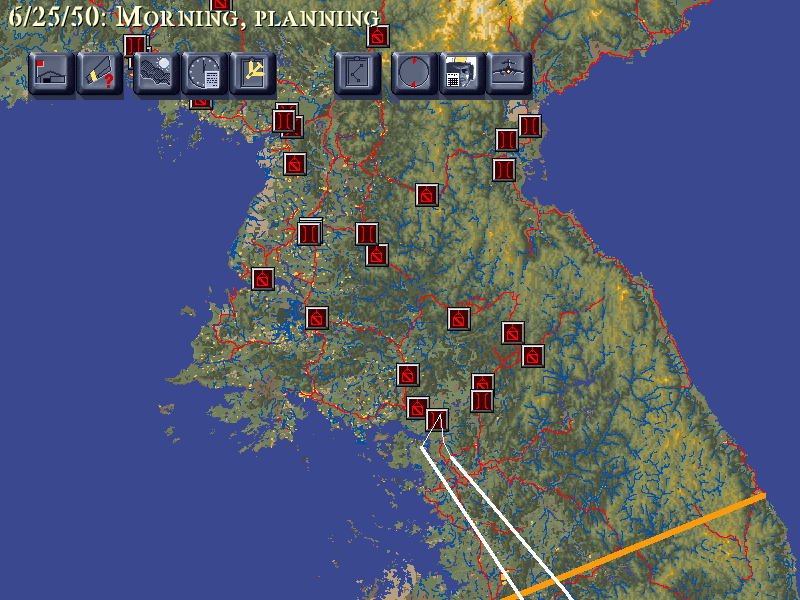
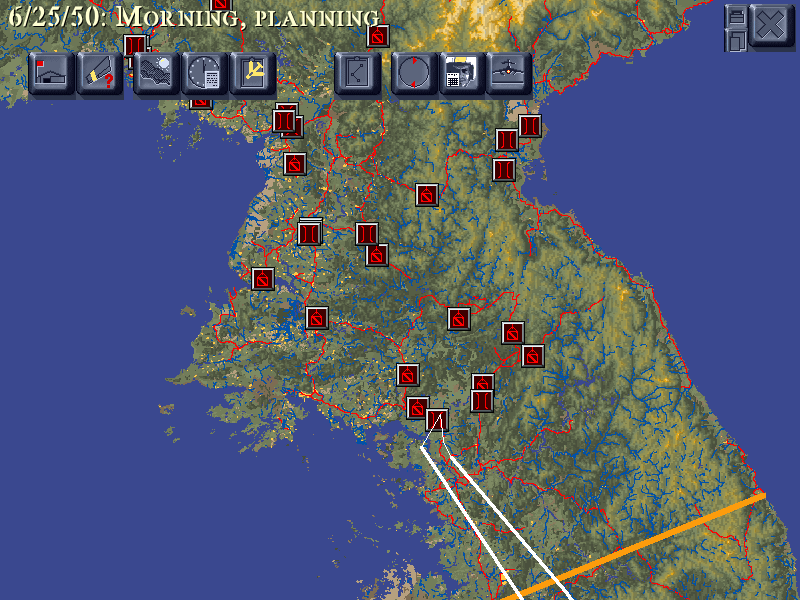
S97 (PO-1): the campaign exit widgets are visible, correct, and work
CSystemBox is now drawn ON BY DEFAULT (MA_NO_SYSBOX reverts), with the right
art, and clicking the X returns the player to the title screen and its main
menu. S94 had to leave it opt-in because every button rendered blank and the
draw corrupted the map's date text; both are fixed.

1. The art. F_GRAFIX.G has FIL_ICON_THUMBNAIL / FIL_ICON_ZOOMIN /
   FIL_ICON_CLOSE1, named after the three control ids -- and two of the three
   are the wrong pictures (they render as unrelated map glyphs). The Wine gold
   settles what the buttons look like; a name in a header does not. New probe
   hook MA_BTN_ART="id=0xNNNN,..." made this a comparison against gold instead
   of a rebuild per candidate. The mapping cross-checks against behaviour:
   IDC_ZOOMIN drives OnGoBig/OnGoNormal, so FIL_ICON_SCREENSIZE is right.

2. The font leak. Drawing the box left a different GDI font selected in the
   screen DC, and the map's date readout -- drawn from the same DC later in
   the frame -- inherited it, rendering top-left in a plain sans. A widget
   must not change the state of the screen it draws on: the font is saved and
   restored around the draw. The check that proves it is that the only pixels
   differing from the previous reference are x 724-795, y 4-51 -- exactly the
   box's rect. "Parity still passes" is weaker than "the diff is exactly the
   shape of what I added".

3. The ghost the art revealed. With art, a SECOND copy of the cluster appeared
[…]

Changed region(s): [[0.9062, 0.0, 1.0, 0.09]]

diff --git a/SRC/MFC/MIG.CPP b/SRC/MFC/MIG.CPP
@@ -217,6 +217,10 @@ extern "C" int ma_map_nav_held(void);
 extern "C" int ma_map_nav_take(void);
 extern "C" int ma_mouse_wheel(void);
 extern "C" const void* ma_gdi_canvas(int*, int*);
+extern "C" void* ma_gdi_screen_dc(void);
+extern "C" void* ma_gdi_get_font(void* hdc);
+extern "C" void  ma_gdi_set_font(void* hdc, void* font);
+extern "C" void  ma_ole_set_parent_scoped(void* dialog);
 /* Apply a new map zoom about screen point (cx,cy), replicating CMIGView::Zoom()'s math
    (MIGVIEW.CPP:888-925) WITHOUT its m_pScaleBar/scrollbar/m_mapdlg side-effects, which
    aren't wired in the port (m_pScaleBar can be NULL -> the real Zoom would crash). */
@@ -1209,23 +1213,35 @@ int CMIGApp::Run()
 							     campaign had no exit or resize widgets at all -- reported from play.
 							     Placed at the canvas's top-right from the box's own control extent, not
 							     a hardcoded width (same rule as the click recipes). */
-							  /* S94 (PO-1): OPT-IN until finished. Drawing the box leaves a different
-							     GDI font selected, and the map's date text -- drawn from the same DC --
-							     inherits it: the parity gate caught the map date rendering in a plain
-							     sans instead of the game's art face, and the OOB sweep went 9 OPEN -> 0.
-							     The box also still renders blank (its ids have no icon art), so shipping
-							     it on by default would trade a passing gate for no visible benefit.
-							     MA_SYSBOX=1 enables it for continued work. */
-							  if (getenv("MA_SYSBOX") && _mf->m_wndSystemBox) {
+							  /* S97 (PO-1): ON BY DEFAULT (MA_NO_SYSBOX reverts). S94 had to leave this
+							     opt-in for two reasons, both now fixed. (1) The buttons had no art --
+							     they do now. (2) Drawing the box left a different GDI font selected and
+							     the map's date text, drawn from the same DC later in the frame,
+							     inherited it: the date rendered in a plain sans instead of the game's
+							     art face. A widget must not change the state of the screen it draws on,
+							     so the DC's font is saved and restored around the draw. */
+							  if (!getenv("MA_NO_SYSBOX") && _mf->m_wndSystemBox) {
 								  int _bw=0,_bh=0;
 								  int _found = ma_ole_dialog_extent(_mf->m_wndSystemBox, &_bw, &_bh);
 								  if (getenv("MA_TRACE_SYSBOX")) { static int _n=0; if(_n++<3)
 									  fprintf(stderr,"[sysbox] box=%p hosted=%d extent=%dx%d\n",
 									          (void*)_mf->m_wndSystemBox, _found, _bw, _bh); }
-								  if (_found && _bw>0) {
+								  if (getenv("MA_TRACE_SYSBOX"))
+								  fprintf(stderr,"[sysbox] wnd=%p found=%d extent=%dx%d canvas=%dx%d\n",
+								          (void*)_mf->m_wndSystemBox, _found, _bw, _bh, _cw, _ch);
+							  if (_found && _bw>0) {
 									  g_sysbox_ox = _cw - _bw - 4; g_sysbox_oy = 4;
 									  if (g_sysbox_ox < 0) g_sysbox_ox = 0;
+									  /* composite it here and ONLY here */
+								  static void* _sbReg = 0;
+								  if (_sbReg != _mf->m_wndSystemBox) {
+									  _sbReg = _mf->m_wndSystemBox;
+									  ma_ole_set_parent_scoped(_sbReg);
+								  }
+								  void* _sdc = ma_gdi_screen_dc();
+									  void* _oldFont = ma_gdi_get_font(_sdc);
 									  ma_ole_draw_toolbar(_mf->m_wndSystemBox, (void*)1, g_sysbox_ox, g_sysbox_oy);
+									  ma_gdi_set_font(_sdc, _oldFont);
 								  }
 							  }
 							  ma_map_paint_oob();   /* S53: render any open OOB-info dialog over the map */
@@ -1267,7 +1283,7 @@ int CMIGApp::Run()
 								     refusal on the click — otherwise its tabs/tick/rows are dead and
 								     the click hits the toolbar or map behind it. */
 								  if (!ma_map_click_oob(_tcx, _tcy))
-								  if (!(getenv("MA_SYSBOX") && _mf->m_wndSystemBox && g_sysbox_ox >= 0 &&
+								  if (!(!getenv("MA_NO_SYSBOX") && _mf->m_wndSystemBox && g_sysbox_ox >= 0 &&
 								        ma_ole_toolbar_click(_mf->m_wndSystemBox, g_sysbox_ox, g_sysbox_oy, _tcx, _tcy)))
 								  if (!ma_ole_toolbar_click(&_mf->m_toolbar2, 4, 52, _tcx, _tcy))
 								  if (!ma_ole_toolbar_click(&_mf->m_toolbar1, 4, 26, _tcx, _tcy))

diff --git a/SRC/compat/ma_olebutton.cpp b/SRC/compat/ma_olebutton.cpp
@@ -116,7 +116,33 @@ extern "C" void ma_button_apply_icon(void* ctrlp, int id) {
         case 2058: fn=0x6a7e; break;  /* IDC_OVERVIEW   -> FIL_ICON_OVERVIEW */
         case 2140: fn=0x6a75; break;  /* IDC_PACKAGES   -> FIL_ICON_MISSIONFOLDER */
         case 2023: fn=0x6a78; break;  /* IDC_AUTHORISE  -> FIL_ICON_MISSIONRESULTS */
+        /* S97 (PO-1): the CSystemBox cluster at the top right -- the widgets the play-tester went
+           looking for and could not find, because the box drew but every button in it was blank.
+           The art was in the game all along and is named after the controls themselves. Confirmed
+           against the Wine gold (#7, top-right corner): maximise and restore stacked in a 24-wide
+           left column, and a large X on the right, which is IDC_FILES -> CMainFrame::OnBye() --
+           the exit.
+           The two small ids do NOT take the art whose NAME matches them: FIL_ICON_THUMBNAIL /
+           FIL_ICON_ZOOMIN render as unrelated map glyphs here. The art was identified by
+           comparing renders against the gold crop (probe hook MA_BTN_ART), and the result is
+           self-consistent -- IDC_ZOOMIN drives OnGoBig/OnGoNormal, which IS the screen-size
+           widget. Matching a name to an id would have shipped the wrong pictures. */
+        case 4:    fn=0x6a99; break;  /* IDC_THUMBNAIL (top)    -> 0x6a99, minimise glyph */
+        case 7:    fn=0x6a9c; break;  /* IDC_ZOOMIN    (bottom) -> FIL_ICON_SCREENSIZE     */
+        case 10:   fn=0x6aa0; break;  /* IDC_FILES     (large)  -> FIL_ICON_CLOSE1, the exit */
         default: return;
+    }
+    /* S97 probe hook: MA_BTN_ART="id=0xNNNN,id=0xNNNN" overrides the table at runtime. Finding the
+       right art means comparing renders against the gold shot, and rebuilding for each candidate
+       turns a two-minute question into an hour. Off unless set. */
+    const char* ov = getenv("MA_BTN_ART");
+    if (ov) {
+        const char* p2 = ov;
+        while (p2 && *p2) {
+            int oid = 0; unsigned ofn = 0;
+            if (sscanf(p2, "%d=%i", &oid, &ofn) == 2 && oid == id) { fn = (long)ofn; break; }
+            const char* c2 = strchr(p2, ','); p2 = c2 ? c2 + 1 : 0;
+        }
     }
     if (c->GetNormalFileNum() != fn) c->SetNormalFileNum(fn);
 }

diff --git a/SRC/compat/ma_olecontrol.cpp b/SRC/compat/ma_olecontrol.cpp
@@ -12,6 +12,7 @@
 #include <stdarg.h>
 #include <stdio.h>
 #include <stdlib.h>
+#include <set>
 #include <map>
 #include "RListBxC.h"          /* CRListBoxCtrl */
 /* S82: implemented in ma_olebutton.cpp (only that TU can see CRButtonCtrl). */
@@ -540,6 +541,16 @@ void ma_ole_remove_by_parent(void* parent) {
     if (n && getenv("MA_TRACE_SIZE")) fprintf(stderr,"[hosted.remove] parent=%p removed=%d remaining=%zu\n", parent, n, m.size());
 }
 
+/* S97 (PO-1): dialogs that are composited ONLY by ma_ole_draw_toolbar, never by the global pass.
+   The campaign-map CRToolBars get this for free because their parent CDialog is created hidden, so
+   ma_ole_draw_all skips them. CSystemBox's parent IS visible, so once its buttons were given art
+   the global pass began drawing them a second time at their raw template origin -- a ghost cluster
+   in the top-left corner that outlived the campaign and sat on the title screen. (It had been
+   drawing all along; with no art it painted nothing, so nobody saw it.) Depending on a parent's
+   hidden-ness for this is an accident; say it explicitly instead. */
+static std::set<void*>& parent_scoped() { static std::set<void*> s; return s; }
+extern "C" void ma_ole_set_parent_scoped(void* dialog) { if (dialog) parent_scoped().insert(dialog); }
+
 void ma_ole_draw_all(void* screenHdc) {
     std::map<void*, Hosted>& m = hosted();
     if (getenv("MA_TRACE_SIZE")) { static int f=0; if((f++ % 30)==0) fprintf(stderr,"[hosted.size] frame~%d entries=%zu\n", f, m.size()); }
@@ -564,6 +575,8 @@ void ma_ole_draw_all(void* screenHdc) {
         /* skip hidden controls / controls whose parent dialog is hidden (ShowWindow(SW_HIDE)) */
         if (!clientWnd->m_maVisible) continue;
         if (parent && !parent->m_maVisible) continue;
+        /* S97: this dialog is composited by the parent-scoped path only (see parent_scoped()) */
+        if (h.parent && parent_scoped().count(h.parent)) continue;
         /* S57 template-membership filter (BoB S124 §8f): a template-positioned control
            ABSENT from the installed build's template for its dialog would never be
            created by the Windows dialog manager — don't draw it (kills source-only

diff --git a/port/scrum/sprint-97.md b/port/scrum/sprint-97.md
@@ -1,0 +1,74 @@
+# Sprint 97 — "A way out" (PO-1) — ✅ CLOSED 2026-08-09 — the exit widgets are visible, correct and they work
+
+**Planned 2026-08-09 (PO pre-approved ceremonies; continuous-sprint directive). Autonomous. ~8 pts.**
+**Sprint Goal:** finish PO-1 — *"no way to exit from campaign — no exit, resize etc widgets on
+upper right"* — which S94 root-caused and half-fixed.
+
+| Story | Pts | Result |
+|---|---|---|
+| S97-1 give the system box its art | 3 | ✅ identified against gold |
+| S97-2 ship it on by default (font leak) | 3 | ✅ fixed, diff confined to the box rect |
+| S97-3 the ghost cluster it exposed | 1 | ✅ parent-scoped draw made explicit |
+| S97-4 gate it | 1 | ✅ `port/sysbox_exit.sh` |
+
+## The state S94 left it in
+`CSystemBox` was drawn and click-routed but **opt-in behind `MA_SYSBOX=1`**, for two reasons: every
+button rendered **blank**, and drawing the box **corrupted the map's date text**. Both are fixed, so
+it is now **on by default** (`MA_NO_SYSBOX` reverts) — which is the point, since a widget the player
+cannot see is not an exit.
+
+## 1. The art — and why matching names to ids would have shipped the wrong pictures
+`F_GRAFIX.G` has `FIL_ICON_THUMBNAIL`, `FIL_ICON_ZOOMIN`, `FIL_ICON_CLOSE1` — named after the three
+control ids. **Two of the three are wrong.** `FIL_ICON_THUMBNAIL`/`FIL_ICON_ZOOMIN` render as
+unrelated map glyphs (a red square, a circular badge).
+
+The Wine gold (#7) settles it: a 24-wide left column with **minimise** over **restore**, and a large
+**X** on the right. The X is `IDC_FILES` → `CMainFrame::OnBye()` — *the exit*. Identified by probing
+candidates against the gold crop, which the new `MA_BTN_ART="id=0xNNNN,…"` hook makes a two-minute
+question instead of a rebuild each time. Final map: `IDC_THUMBNAIL`→`0x6a99`,
+`IDC_ZOOMIN`→`0x6a9c` (`FIL_ICON_SCREENSIZE` — and `IDC_ZOOMIN` drives `OnGoBig`/`OnGoNormal`, which
+*is* the screen-size widget, so the result is self-consistent), `IDC_FILES`→`0x6aa0`.
+
+## 2. The font leak — a widget must not change the state of the screen it draws on
+S94's parity failure was the map's **date readout**, top left, nowhere near the box: drawing the box
+left a different GDI font selected in the screen DC, and the date text — drawn from the same DC
+later in the frame — inherited it. Fixed by saving and restoring the DC's font around the draw.
+
+**The check that proves it**, which S94 did not have: the only pixels that differ from the previous
+reference are **x 724–795, y 4–51** — exactly the box's 72×48 rect at its position. Nothing else on
+the screen moved.
+
+## 3. ⚠ The bug the art *revealed*: a ghost that had been drawing all along
+With art, a second copy of the cluster appeared at the **top-left**, and it **outlived the campaign
+and sat on the title screen**. `ma_ole_draw_all` was drawing the box's controls at their raw
+template origin *as well as* the parent-scoped map draw. **It had always been doing this — with no
+art it painted nothing, so nobody saw it.**
+
+The map toolbars avoid this only because their parent `CDialog` is created **hidden**; `CSystemBox`'s
+parent is visible. Depending on a parent's hidden-ness is an accident, so the port now says it:
+`ma_ole_set_parent_scoped(dialog)` marks a dialog as composited by the parent-scoped path only.
+
+*Worth noting how this was found: it did not show up in any gate. The parity `title` capture is a
+clean boot that never enters the campaign, so it stayed byte-identical while the title screen was
+visibly wrong after an exit. It was found by looking at the screenshot of the thing just built.*
+
+## 4. Proven end to end
+Clicking the X returns the player to the **title screen with the main menu** (Preferences / Single
+Player / Multi-Player / Load Game / Replay / Credits / Quit). `port/sysbox_exit.sh` asserts three
+things — the handler ran, the screen really left the map (100% of pixels differ), and the process
+survived — and clicks by **control id qualified by host class** (`#10@CSystemBox`), never a
+coordinate, since the box is positioned from the screen's right edge (S95's rule; S96 moved that
+edge twice).
+
+`campaign_map`'s reference is re-baselined to include the widgets — intended, and the other four
+screens stayed byte-identical.
+
+## Gates — all under `gl-lock`
+- **parity 5/5** · **sweep 9 OPEN / 0 CRASH** · **map click PASS** · **map drag PASS** ·
+  **new sysbox exit PASS** · **stress 20/20** · **ASan 0 reports**
+
+## Result
+PO-1 closed. **Four of the five play-test defects are now closed** (PO-1, PO-2, PO-3, and PO-4 is
+next with its cause already named); PO-5 remains the deep one. A player can now exit the campaign,
+open a recon dossier, and drag the map without the screen falling apart — three things that were all
+broken twelve minutes into the first human play-test.

diff --git a/scrum.md b/scrum.md
@@ -167,6 +167,46 @@ Each release is a usable product; the train can stop at any release boundary and
 
 ## 5. Sprint Plan (rolling)
 
+### 🏃 Sprint 97 — "A way out" (PO-1) — ✅ CLOSED 2026-08-09 (goal MET) — the exit widgets are visible, correct, and they work
+
+**Sprint Review (PO pre-approved ceremony, logged 2026-08-09):** detail in
+`port/scrum/sprint-97.md`.
+
+- **PO-1 CLOSED.** `CSystemBox` is now drawn **on by default** (`MA_NO_SYSBOX` reverts) with correct
+  art, and clicking the **X** returns the player to the title screen and its main menu. S94 had left
+  it opt-in because the buttons were blank and the draw corrupted the map date; both fixed.
+- **⚠ Art named after a control is not necessarily the art *for* that control.** `F_GRAFIX.G` has
+  `FIL_ICON_THUMBNAIL`/`FIL_ICON_ZOOMIN`/`FIL_ICON_CLOSE1`, named after the three ids — **two of the
+  three are the wrong pictures** (they render as unrelated map glyphs). The gold shot settles what
+  the buttons look like; a name in a header does not. New probe hook `MA_BTN_ART="id=0xNNNN,…"` made
+  it a two-minute comparison instead of a rebuild per candidate, and the result cross-checks against
+  *behaviour* (`IDC_ZOOMIN` drives `OnGoBig`/`OnGoNormal`, so `FIL_ICON_SCREENSIZE` is right).
+- **A widget must not change the state of the screen it draws on.** S94's parity failure was the map
+  **date readout**, top left, nowhere near the box: the box draw left a different GDI font selected
+  and the date inherited it. Font saved/restored around the draw — and the check that proves it is
+  that the only differing pixels are **x 724–795, y 4–51**, exactly the box's rect. *"Parity still
+  passes" is weaker than "the diff is exactly the shape of what I added".*
+- **⚠ Giving the buttons art revealed a bug that had always been there.** A **second** copy of the
+  cluster appeared top-left and **outlived the campaign, sitting on the title screen**:
+  `ma_ole_draw_all` had always drawn those controls at their raw template origin as well — with no
+  art it painted nothing, so nobody saw it. The map toolbars escape the global pass only because
+  their parent dialog is created *hidden*, which is an accident; the port now says it explicitly
+  (`ma_ole_set_parent_scoped`).
+  **No gate caught this** — the parity `title` capture is a clean boot that never enters the
+  campaign, so it stayed byte-identical while the title screen was visibly wrong *after an exit*.
+  It was found by looking at the screenshot of the thing just built. **Transition states (screen A
+  arrived at from screen B) are a systematic hole in a per-screen parity suite** — logged as a
+  backlog item, not fixed here.
+- **Gates:** parity 5/5 (campaign_map re-baselined to include the widgets, other four unchanged) ·
+  sweep 9 OPEN/0 CRASH · map click PASS · map drag PASS · **new sysbox exit PASS** · stress 20/20 ·
+  ASan 0.
+
+**Retro.** Three sprints, three PO defects closed, and each one exposed something older and larger
+than the report: a click consumer that was never in the router (S95), a screen that had never been
+the right size (S96), and a ghost that only became visible when the thing in front of it got art
+(S97). **Play-test findings keep out-performing autonomous investigation — and the standing lesson
+of this run is that the gates are strongest where they were last burned and blind everywhere else.**
+
 ### 🏃 Sprint 96 — "The screen was the wrong size" (PO-2) — ✅ CLOSED 2026-08-09 (goal MET) — ⭐ the campaign map had been 221 px too wide since it first rendered
 
 **Sprint Review (PO pre-approved ceremony, logged 2026-08-09):** detail in

diff --git a/port/CROSS-PORT-FROM-MA-2026-08-09-note38.md b/port/CROSS-PORT-FROM-MA-2026-08-09-note38.md
@@ -1,0 +1,50 @@
+# Cross-port note 38 — from MiG Alley to BoB / FreeFalcon (2026-08-09, MA Sprint 97)
+
+**Subject: the `CSystemBox` cluster — and two traps that will hit any port hosting OCX controls.**
+
+Full write-up: **§8-MA97** in the shared lessons doc.
+
+## 1. BoB hosts the same system box — check yours draws exactly once
+
+MA's `CSystemBox` (minimise / resize / **exit**) rendered as three blank buttons, so a play-tester
+could not leave the campaign at all. Two separate defects, both likely present in BoB:
+
+**(a) The art named after a control is not necessarily the art *for* that control.** `F_GRAFIX.G`
+has `FIL_ICON_THUMBNAIL`, `FIL_ICON_ZOOMIN`, `FIL_ICON_CLOSE1` — named after the three control ids,
+and **two of the three are the wrong pictures** (they render as unrelated map glyphs). The gold shot
+settles what a button looks like; a name in a header does not. Make the comparison cheap — MA added
+`MA_BTN_ART="id=0xNNNN,…"` to override the id→art table at runtime, turning "which of these twelve
+file numbers is it?" into minutes rather than a rebuild per candidate. Cross-check the answer
+against *behaviour* (`IDC_ZOOMIN` drives `OnGoBig`/`OnGoNormal`, so `FIL_ICON_SCREENSIZE` is right).
+
+**(b) Giving a control art can reveal a bug that was always there.** With art, a **second copy** of
+the whole cluster appeared at the top-left and **outlived the campaign, sitting on the title
+screen** — `ma_ole_draw_all` had always been drawing those controls at their raw template origin
+*in addition to* the parent-scoped draw. With no art it painted nothing, so nobody saw it.
+
+**This is the one I would check in BoB today.** Your map toolbars escape the global draw pass only
+because their parent `CDialog` is created **hidden**. That is an accident, not a rule — any hosted
+dialog with a *visible* parent that you also composite explicitly is drawing twice right now, and
+you will only find out when its controls get art. MA now marks such dialogs explicitly
+(`ma_ole_set_parent_scoped(dialog)`) instead of relying on show state.
+
+## 2. A widget must not change the state of the screen it draws on
+
+Drawing the box left a different **GDI font** selected in the screen DC; the campaign map's date
+readout, drawn from the same DC later in the frame, inherited it and rendered in a plain sans. The
+symptom appeared **top-left, nowhere near the box**. Save/restore the DC's selected objects around
+any composite draw.
+
+Also worth stealing, the verification: after the fix, the *only* pixels differing from the previous
+reference were the box's own 72×48 rect at its own position. **"Parity still passes" is a much
+weaker claim than "the diff is exactly the shape of what I added, and nothing else moved."**
+
+## 3. Your per-screen parity suite has a systematic hole
+
+None of MA's gates caught the ghost cluster. The parity `title` capture is a **clean boot** that
+never enters the campaign, so it stayed byte-identical while the title screen was visibly wrong
+*after an exit*. It was found by looking at the screenshot of the thing just built.
+
+**Transition states — screen A arrived at from screen B — are untested in a per-screen suite.** If
+your suite is built the same way (ours is), the same class of defect is invisible to it. MA has
+logged adding the campaign→title exit as a parity screen.

diff --git a/port/BOB_PORT_LESSONS.md b/port/BOB_PORT_LESSONS.md
@@ -2577,3 +2577,45 @@ only evidence when something independent shows the code ran.
 A drag ends in a release, which raised the same one-click edge as a tap — so once map clicks were
 routed (§8-MA95), **every pan finished by opening a dialog**. Windows fires a control only when
 press and release land together; require that (≤4 px) before treating a release as a click.
+
+---
+
+## §8-MA97 — Art that is *named* after a control is not necessarily the art *for* that control
+
+**MA Sprint 97.** The `CSystemBox` cluster (minimise / resize / **exit**) drew as three blank
+buttons, so the play-tester could not leave the campaign. `F_GRAFIX.G` has `FIL_ICON_THUMBNAIL`,
+`FIL_ICON_ZOOMIN` and `FIL_ICON_CLOSE1`, named after the three control ids — **and two of the three
+are the wrong pictures.** They render as unrelated map glyphs.
+
+The gold shot settles what the buttons look like; a name in a header does not. Identify art by
+**comparing renders against gold**, and make that cheap — a runtime override
+(`MA_BTN_ART="id=0xNNNN,…"`) turns "which of these twelve file numbers is it?" into minutes instead
+of a rebuild per candidate. The final mapping was confirmed self-consistent by *behaviour*
+(`IDC_ZOOMIN` drives `OnGoBig`/`OnGoNormal`, so `FIL_ICON_SCREENSIZE` is right), which is the
+cross-check worth insisting on.
+
+### A widget must not change the state of the screen it draws on
+Drawing the box left a different **GDI font** selected in the screen DC, and the campaign map's date
+readout — drawn from the same DC later in the frame — inherited it and rendered in a plain sans.
+The failure appeared **top left, nowhere near the box**. Save/restore the DC's font (and any other
+selected object) around a composite draw.
+
+**The check that makes this convincing:** after the fix, the *only* pixels differing from the
+previous reference were the box's own 72×48 rect at its own position. "Parity still passes" is
+weaker than "the diff is exactly the shape of what I added, and nothing else moved".
+
+### ⚠ Giving a control art can *reveal* a second bug that was always there
+With art, a **second copy** of the cluster appeared at the top-left and outlived the campaign, still
+sitting on the title screen. `ma_ole_draw_all` had always been drawing those controls at their raw
+template origin *in addition to* the parent-scoped draw — **with no art it painted nothing, so
+nobody saw it**.
+
+BoB will have the same shape: the map toolbars escape the global pass only because their parent
+`CDialog` is created **hidden**. That is an accident, not a rule. If a dialog is composited by a
+parent-scoped path, **say so explicitly** (MA added `ma_ole_set_parent_scoped(dialog)`) rather than
+relying on its parent's show state.
+
+**And note how it was found: no gate caught it.** The parity `title` capture is a clean boot that
+never enters the campaign, so it stayed byte-identical while the title screen was visibly wrong
+*after an exit*. It was found by looking at the screenshot of the thing just built. Transition
+states — screen A after coming from screen B — are a systematic hole in a per-screen parity suite.
